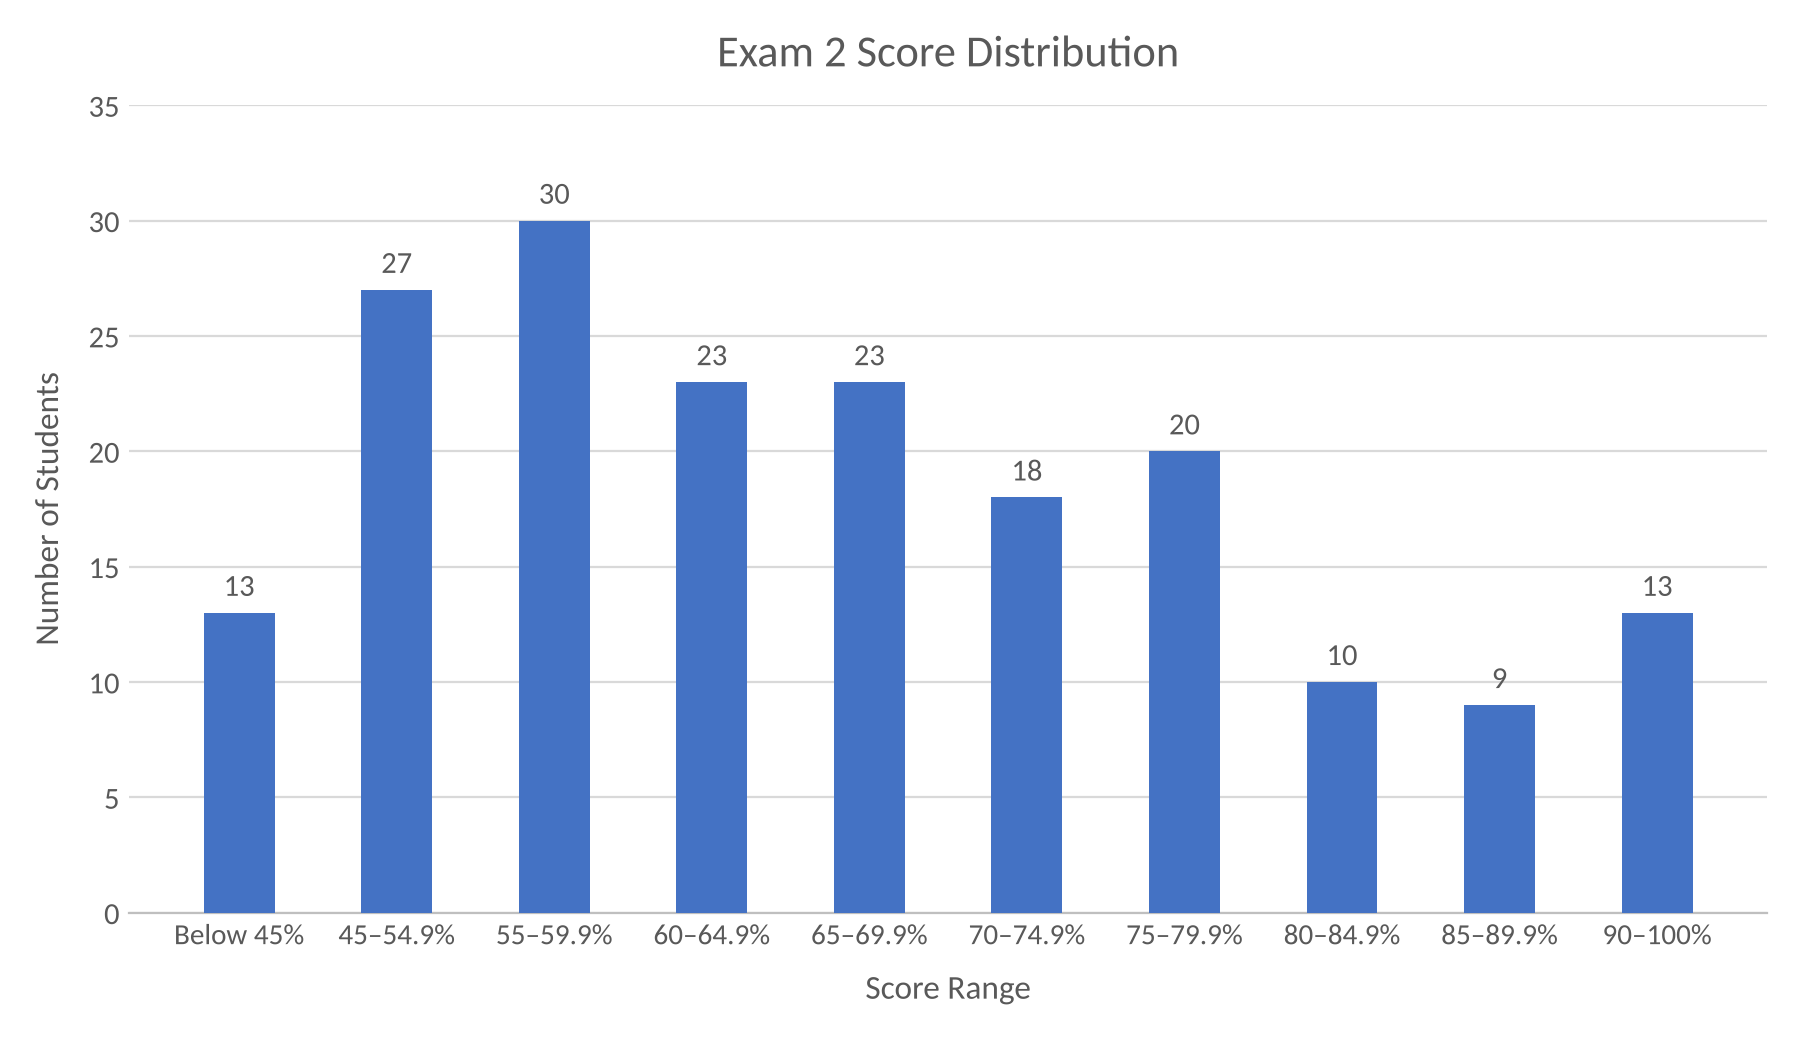
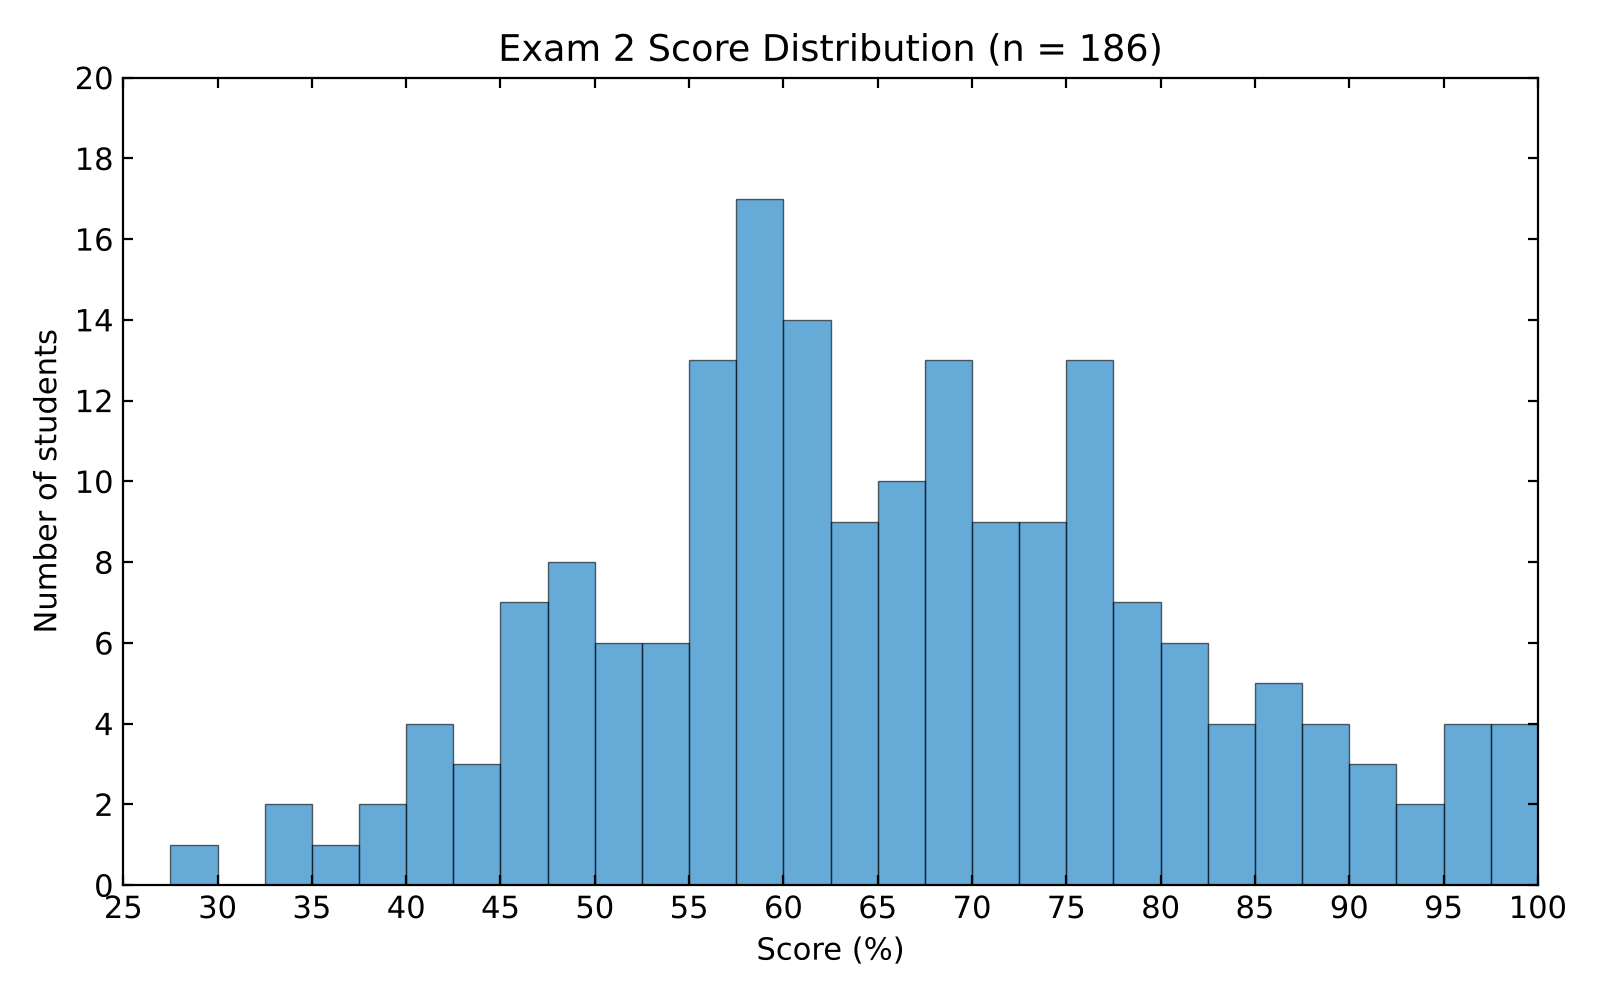
Shorten the Exam 2 announcement and switch its chart to a histogram
Rewrites the announcement in a shorter, more direct voice (about 270 words),
replaces the range bar chart with a histogram of the 186 scores in 2.5-point
bins, and moves the range counts into an expandable table. tools/exam_chart.py
now draws the histogram from a file of raw scores.

Claude-Session: https://claude.ai/code/session_01S5BVrJgavhovAJWstdpyvb

diff --git a/docs/announcements.html b/docs/announcements.html
@@ -28,27 +28,22 @@
 <article class="announcement" aria-labelledby="exam-2-grades">
 <h2 id="exam-2-grades">Exam 2 grades are posted</h2>
 <p class="meta"><time datetime="2026-10-20">Tuesday, October 20, 2026</time></p>
-<p>Exam 2, covering Lectures 11 through 20, has been graded, and scores are available in Brightspace. Of 190
-enrolled students, 186 took the exam. The statistics below describe those 186 exams and exclude the four
-absences, which will be handled according to the missed-exam policy.</p>
+<p>Exam 2 (Lectures 11–20) is graded, and your scores are in Brightspace. 186 of you took it; the four
+absences fall under the missed-exam policy.</p>
 
-<div class="table-wrap" role="region" tabindex="0" aria-label="Exam 2 class results (table)">
-<table>
-<caption>Exam 2 class results</caption>
-<thead><tr><th scope="col">Class results</th><th scope="col" class="num">Points out of 120</th><th scope="col" class="num">Percent</th></tr></thead>
-<tbody>
-<tr><th scope="row">Mean</th><td class="num">79.00</td><td class="num">65.83%</td></tr>
-<tr><th scope="row">Median</th><td class="num">77.75</td><td class="num">64.79%</td></tr>
-<tr><th scope="row">Standard deviation</th><td class="num">17.63</td><td class="num"></td></tr>
-<tr><th scope="row">Highest score</th><td class="num">117.00</td><td class="num">97.50%</td></tr>
-<tr><th scope="row">Lowest score</th><td class="num">33.50</td><td class="num">27.92%</td></tr>
-</tbody>
-</table>
-</div>
+<p>The class average was <strong>65.83%</strong> (79.0 out of 120) and the median was <strong>64.79%</strong>.
+Scores ranged from 27.92% to 97.50%.</p>
 
-<div class="table-wrap" role="region" tabindex="0" aria-label="Exam 2 score distribution (table)">
+<figure class="chart">
+<img src="assets/announcements/exam2-distribution.png" width="1600" height="1000"
+alt="Histogram of Exam 2 scores for 186 students, in 2.5-percentage-point bins from 25% to 100%. Most scores fall between 55% and 80%, with the tallest bar, 17 students, at 57.5 to 60%. Fewer students scored at either end: 13 scored below 45% and 13 scored 90% or higher. Mean 65.83%, median 64.79%.">
+</figure>
+
+<details>
+<summary>Number of students in each score range</summary>
+<div class="table-wrap" role="region" tabindex="0" aria-label="Exam 2 score ranges (table)">
 <table>
-<caption>Exam 2 score distribution</caption>
+<caption class="visually-hidden">Exam 2: number of students in each score range</caption>
 <thead><tr><th scope="col">Score range</th><th scope="col">Letter guide</th><th scope="col" class="num">Students</th></tr></thead>
 <tbody>
 <tr><th scope="row">90–100%</th><td>A</td><td class="num">13</td></tr>
@@ -65,57 +60,26 @@ absences, which will be handled according to the missed-exam policy.</p>
 </tbody>
 </table>
 </div>
+<p class="meta">The letter guides are the approximate ranges from the syllabus, not exam letter grades or final cutoffs.</p>
+</details>
 
-<figure class="chart">
-<img src="assets/announcements/exam2-distribution.png" width="1800" height="1040"
-alt="Bar chart of Exam 2 scores for 186 students. Below 45% (F): 13. 45–54.9% (D): 27. 55–59.9% (C−): 30. 60–64.9% (C): 23. 65–69.9% (C+): 23. 70–74.9% (B−): 18. 75–79.9% (B): 20. 80–84.9% (B+): 10. 85–89.9% (A−): 9. 90–100% (A): 13. 70 students (37.6%) scored below 60% and 116 (62.4%) scored 60% or above. Mean 65.83%, median 64.79%.">
-</figure>
+<p>Most of you did well on sensory structures and on the behavior in jumping spider vision, moth bat-evasion
+and passive electroreception. Points were lost on motion detection, bat target-range computation and owl map
+plasticity. Those answers usually named the right concept but didn't explain the experiment, what happened, and
+why that result supports the mechanism. That reasoning is what I grade. Naming a brain region or repeating a
+slide is not an answer, and a longer answer is not a better one.</p>
 
-<p>These letter ranges are approximate guides from the syllabus. They are not finalized course cutoffs or
-individual exam letter grades.</p>
+<p>Seventy of you scored below 60%. That does not mean you have failed the course, but it does mean the way
+you're studying isn't working yet. Go back through each question you missed, figure out what went wrong,
+and answer it again without your notes. Then come see me: Tuesdays and Thursdays, 5–7 pm, in ANI 208. Bring
+your exam and specific questions.</p>
 
-<p>Performance varied substantially across the material. Students generally did well identifying sensory
-structures and describing the behaviors associated with jumping spider vision, moth bat-evasion, and passive
-electroreception. Cricket phonotaxis answers were more uneven, particularly when students had to connect
-recognition of a sound pattern with the behavioral response rather than simply define phonotaxis.</p>
+<p>There is no curve on this exam. A curve is applied only at the end of the semester, and only if the final
+class average is below 70%, so don't plan around one.</p>
 
-<p>The greatest difficulty appeared in questions on motion detection, bat target-range computation, and
-developmental plasticity in owl sound localization. Many answers identified the relevant concept but did not
-explain the experiment, interpret the result, or establish why that result supported the proposed mechanism.
-Cross-species comparisons also lost points when answers described two animals separately without explaining
-the relevant similarity or difference.</p>
-
-<p>As stated in the syllabus, knowing the terminology is the starting point. When a question asks you to
-explain a mechanism using evidence, naming a brain region or repeating a conclusion from a slide does not fully
-answer it. Strong responses identified what the researchers measured or manipulated, described what happened,
-and explained what could reasonably be concluded. Longer responses did not automatically receive more credit.
-Scientific accuracy and reasoning determined the score.</p>
-
-<p>Seventy students scored below 60%. That is a substantial portion of the class, and those students should
-review their exams and seek help this week. A score below 60% on this exam does not automatically mean you
-have failed the course, but it does mean you need to assess your standing in the lecture component and change
-how you prepare.</p>
-
-<p>The class average of 65.83% does <strong>not</strong> trigger an Exam 2 curve. Any curve will be applied at
-the end of the semester only if the final class average, calculated from the weighted lecture and laboratory
-grades before curving, is below 70%. You must still earn at least 60% in both components to pass. Do not plan
-your remaining work around an adjustment that may not occur.</p>
-
-<p>For your review, return to each missed question and determine whether the problem was missing factual
-knowledge, misunderstanding a mechanism, misreading a figure, or failing to explain the evidence. Then practice
-answering that question again without your notes. Being able to recognize an explanation while reading it is
-different from being able to construct it yourself.</p>
-
-<p>My office hours are Tuesdays and Thursdays from 5–7 pm in ANI 208. Bring specific questions and the lecture
-material you struggled with so we can identify where your reasoning breaks down.</p>
-
-<p>Exam 3 is Monday, November 9, at 12:00 PM and covers Lectures 21 through 30. Under the one-week release
-schedule, recordings will begin becoming available on November 2, with remaining lectures added after they
-occur. Begin preparing now.</p>
-
-<p>Two exams and the lecture project remain, together accounting for 60% of your lecture grade. There is still
-substantial work through which to demonstrate improvement, but that improvement needs to appear in the quality
-of your explanations and analysis.</p>
+<p>Exam 3 is Monday, November 9, at 12:00 PM, covering Lectures 21–30, and recordings start coming out on
+November 2. Two exams and the project are still 60% of your lecture grade, so there is plenty of room to turn
+this around. Start now.</p>
 
 <p class="signature">Dr. Lopez</p>
 

diff --git a/source/announcements/2026-10-20-exam-2-grades.html b/source/announcements/2026-10-20-exam-2-grades.html
@@ -1,24 +1,19 @@
-<p>Exam 2, covering Lectures 11 through 20, has been graded, and scores are available in Brightspace. Of 190
-enrolled students, 186 took the exam. The statistics below describe those 186 exams and exclude the four
-absences, which will be handled according to the missed-exam policy.</p>
+<p>Exam 2 (Lectures 11–20) is graded, and your scores are in Brightspace. 186 of you took it; the four
+absences fall under the missed-exam policy.</p>
 
-<div class="table-wrap" role="region" tabindex="0" aria-label="Exam 2 class results (table)">
-<table>
-<caption>Exam 2 class results</caption>
-<thead><tr><th scope="col">Class results</th><th scope="col" class="num">Points out of 120</th><th scope="col" class="num">Percent</th></tr></thead>
-<tbody>
-<tr><th scope="row">Mean</th><td class="num">79.00</td><td class="num">65.83%</td></tr>
-<tr><th scope="row">Median</th><td class="num">77.75</td><td class="num">64.79%</td></tr>
-<tr><th scope="row">Standard deviation</th><td class="num">17.63</td><td class="num"></td></tr>
-<tr><th scope="row">Highest score</th><td class="num">117.00</td><td class="num">97.50%</td></tr>
-<tr><th scope="row">Lowest score</th><td class="num">33.50</td><td class="num">27.92%</td></tr>
-</tbody>
-</table>
-</div>
+<p>The class average was <strong>65.83%</strong> (79.0 out of 120) and the median was <strong>64.79%</strong>.
+Scores ranged from 27.92% to 97.50%.</p>
 
-<div class="table-wrap" role="region" tabindex="0" aria-label="Exam 2 score distribution (table)">
+<figure class="chart">
+<img src="assets/announcements/exam2-distribution.png" width="1600" height="1000"
+alt="Histogram of Exam 2 scores for 186 students, in 2.5-percentage-point bins from 25% to 100%. Most scores fall between 55% and 80%, with the tallest bar, 17 students, at 57.5 to 60%. Fewer students scored at either end: 13 scored below 45% and 13 scored 90% or higher. Mean 65.83%, median 64.79%.">
+</figure>
+
+<details>
+<summary>Number of students in each score range</summary>
+<div class="table-wrap" role="region" tabindex="0" aria-label="Exam 2 score ranges (table)">
 <table>
-<caption>Exam 2 score distribution</caption>
+<caption class="visually-hidden">Exam 2: number of students in each score range</caption>
 <thead><tr><th scope="col">Score range</th><th scope="col">Letter guide</th><th scope="col" class="num">Students</th></tr></thead>
 <tbody>
 <tr><th scope="row">90–100%</th><td>A</td><td class="num">13</td></tr>
@@ -35,56 +30,25 @@ absences, which will be handled according to the missed-exam policy.</p>
 </tbody>
 </table>
 </div>
+<p class="meta">The letter guides are the approximate ranges from the syllabus, not exam letter grades or final cutoffs.</p>
+</details>
 
-<figure class="chart">
-<img src="assets/announcements/exam2-distribution.png" width="1800" height="1040"
-alt="Bar chart of Exam 2 scores for 186 students. Below 45% (F): 13. 45–54.9% (D): 27. 55–59.9% (C−): 30. 60–64.9% (C): 23. 65–69.9% (C+): 23. 70–74.9% (B−): 18. 75–79.9% (B): 20. 80–84.9% (B+): 10. 85–89.9% (A−): 9. 90–100% (A): 13. 70 students (37.6%) scored below 60% and 116 (62.4%) scored 60% or above. Mean 65.83%, median 64.79%.">
-</figure>
+<p>Most of you did well on sensory structures and on the behavior in jumping spider vision, moth bat-evasion
+and passive electroreception. Points were lost on motion detection, bat target-range computation and owl map
+plasticity. Those answers usually named the right concept but didn't explain the experiment, what happened, and
+why that result supports the mechanism. That reasoning is what I grade. Naming a brain region or repeating a
+slide is not an answer, and a longer answer is not a better one.</p>
 
-<p>These letter ranges are approximate guides from the syllabus. They are not finalized course cutoffs or
-individual exam letter grades.</p>
+<p>Seventy of you scored below 60%. That does not mean you have failed the course, but it does mean the way
+you're studying isn't working yet. Go back through each question you missed, figure out what went wrong,
+and answer it again without your notes. Then come see me: Tuesdays and Thursdays, 5–7 pm, in ANI 208. Bring
+your exam and specific questions.</p>
 
-<p>Performance varied substantially across the material. Students generally did well identifying sensory
-structures and describing the behaviors associated with jumping spider vision, moth bat-evasion, and passive
-electroreception. Cricket phonotaxis answers were more uneven, particularly when students had to connect
-recognition of a sound pattern with the behavioral response rather than simply define phonotaxis.</p>
+<p>There is no curve on this exam. A curve is applied only at the end of the semester, and only if the final
+class average is below 70%, so don't plan around one.</p>
 
-<p>The greatest difficulty appeared in questions on motion detection, bat target-range computation, and
-developmental plasticity in owl sound localization. Many answers identified the relevant concept but did not
-explain the experiment, interpret the result, or establish why that result supported the proposed mechanism.
-Cross-species comparisons also lost points when answers described two animals separately without explaining
-the relevant similarity or difference.</p>
-
-<p>As stated in the syllabus, knowing the terminology is the starting point. When a question asks you to
-explain a mechanism using evidence, naming a brain region or repeating a conclusion from a slide does not fully
-answer it. Strong responses identified what the researchers measured or manipulated, described what happened,
-and explained what could reasonably be concluded. Longer responses did not automatically receive more credit.
-Scientific accuracy and reasoning determined the score.</p>
-
-<p>Seventy students scored below 60%. That is a substantial portion of the class, and those students should
-review their exams and seek help this week. A score below 60% on this exam does not automatically mean you
-have failed the course, but it does mean you need to assess your standing in the lecture component and change
-how you prepare.</p>
-
-<p>The class average of 65.83% does <strong>not</strong> trigger an Exam 2 curve. Any curve will be applied at
-the end of the semester only if the final class average, calculated from the weighted lecture and laboratory
-grades before curving, is below 70%. You must still earn at least 60% in both components to pass. Do not plan
-your remaining work around an adjustment that may not occur.</p>
-
-<p>For your review, return to each missed question and determine whether the problem was missing factual
-knowledge, misunderstanding a mechanism, misreading a figure, or failing to explain the evidence. Then practice
-answering that question again without your notes. Being able to recognize an explanation while reading it is
-different from being able to construct it yourself.</p>
-
-<p>My office hours are Tuesdays and Thursdays from 5–7 pm in ANI 208. Bring specific questions and the lecture
-material you struggled with so we can identify where your reasoning breaks down.</p>
-
-<p>Exam 3 is Monday, November 9, at 12:00 PM and covers Lectures 21 through 30. Under the one-week release
-schedule, recordings will begin becoming available on November 2, with remaining lectures added after they
-occur. Begin preparing now.</p>
-
-<p>Two exams and the lecture project remain, together accounting for 60% of your lecture grade. There is still
-substantial work through which to demonstrate improvement, but that improvement needs to appear in the quality
-of your explanations and analysis.</p>
+<p>Exam 3 is Monday, November 9, at 12:00 PM, covering Lectures 21–30, and recordings start coming out on
+November 2. Two exams and the project are still 60% of your lecture grade, so there is plenty of room to turn
+this around. Start now.</p>
 
 <p class="signature">Dr. Lopez</p>

diff --git a/docs/index.html b/docs/index.html
@@ -47,9 +47,8 @@
 <h2 id="latest">Latest announcement</h2>
 <h3><a href="announcements.html#exam-2-grades">Exam 2 grades are posted</a></h3>
 <p class="meta"><time datetime="2026-10-20">Tuesday, October 20, 2026</time></p>
-<p>Exam 2, covering Lectures 11 through 20, has been graded, and scores are available in Brightspace. Of 190
-enrolled students, 186 took the exam. The statistics below describe those 186 exams and exclude the four
-absences, which will be handled according to the missed-exam policy.</p>
+<p>Exam 2 (Lectures 11–20) is graded, and your scores are in Brightspace. 186 of you took it; the four
+absences fall under the missed-exam policy.</p>
 <p><a href="announcements.html#exam-2-grades">Read the full announcement<span class="visually-hidden">: Exam 2 grades are posted</span></a>
 <span aria-hidden="true">·</span> <a href="announcements.html">All announcements</a></p>
 </section>

diff --git a/docs/assets/site.css b/docs/assets/site.css
@@ -187,3 +187,5 @@ figure.chart img { display: block; width: 100%; height: auto; border: 1px solid 
 @media (max-width: 40rem) {
   .announcement th, .announcement td { padding: 0.45rem 0.4rem; }
 }
+details { margin: 0 0 1.5rem; }
+summary { cursor: pointer; color: var(--link); text-decoration: underline; text-underline-offset: 0.15em; padding: 0.4rem 0; min-height: 2.75rem; }

diff --git a/tools/exam_chart.py b/tools/exam_chart.py
@@ -1,25 +1,20 @@
-import matplotlib
+import sys, numpy as np, matplotlib
 matplotlib.use("Agg")
-import matplotlib.pyplot as plt
-from matplotlib import font_manager
-for f in font_manager.findSystemFonts():
-    if "Carlito" in f: font_manager.fontManager.addfont(f)
-labels = ["Below 45%","45–54.9%","55–59.9%","60–64.9%","65–69.9%","70–74.9%","75–79.9%","80–84.9%","85–89.9%","90–100%"]
-counts = [13,27,30,23,23,18,20,10,9,13]
-assert sum(counts)==186
-GRAY="#595959"
-plt.rcParams.update({"font.family":"Carlito","font.size":11})
-fig, ax = plt.subplots(figsize=(9,5.2), dpi=200)
-ax.bar(range(10), counts, width=0.45, color="#4472C4", zorder=3)
-for i,c in enumerate(counts): ax.text(i, c+0.4, str(c), ha="center", va="bottom", color=GRAY, fontsize=11)
-ax.set_xticks(range(10)); ax.set_xticklabels(labels, color=GRAY, fontsize=10.5)
-ax.set_ylim(0,35); ax.set_yticks(range(0,36,5))
-ax.tick_params(colors=GRAY, length=0)
-ax.grid(axis="y", color="#D9D9D9", linewidth=0.8, zorder=0)
-for s in ["top","right","left"]: ax.spines[s].set_visible(False)
-ax.spines["bottom"].set_color("#BFBFBF")
-ax.set_title("Exam 2 Score Distribution", color=GRAY, fontsize=16, pad=14)
-ax.set_xlabel("Score Range", color=GRAY, fontsize=12, labelpad=8)
-ax.set_ylabel("Number of Students", color=GRAY, fontsize=12, labelpad=8)
-fig.tight_layout()
-fig.savefig("NEUR411_Exam2_distribution.png", facecolor="white")
+import matplotlib.pyplot as plt, matplotlib.ticker
+scores = np.array([float(x) for x in open(sys.argv[1]).read().split()])
+exam, out = sys.argv[2], sys.argv[3]
+pct = scores / 120 * 100
+edges = np.arange(25, 100.01, 2.5)
+counts, _ = np.histogram(pct, bins=edges)
+assert counts.sum() == len(pct)
+plt.rcParams.update({"font.family": "DejaVu Sans", "font.size": 11})
+fig, ax = plt.subplots(figsize=(8, 5), dpi=200)
+ax.hist(pct, bins=edges, color="#0072BD", alpha=0.6, edgecolor="black", linewidth=0.5)
+ax.set_xlim(25, 100); ax.set_xticks(range(25, 101, 5))
+ax.set_ylim(0, counts.max() + 3); ax.yaxis.set_major_locator(matplotlib.ticker.MultipleLocator(2))
+ax.tick_params(direction="in", top=True, right=True)
+for s in ax.spines.values(): s.set_linewidth(0.8)
+ax.set_xlabel("Score (%)"); ax.set_ylabel("Number of students")
+ax.set_title(f"Exam {exam} Score Distribution (n = {len(pct)})")
+fig.tight_layout(); fig.savefig(out, facecolor="white")
+for lo, c in zip(edges[:-1], counts): print(f"{lo:.1f}-{lo+2.5:.1f}: {c}")
